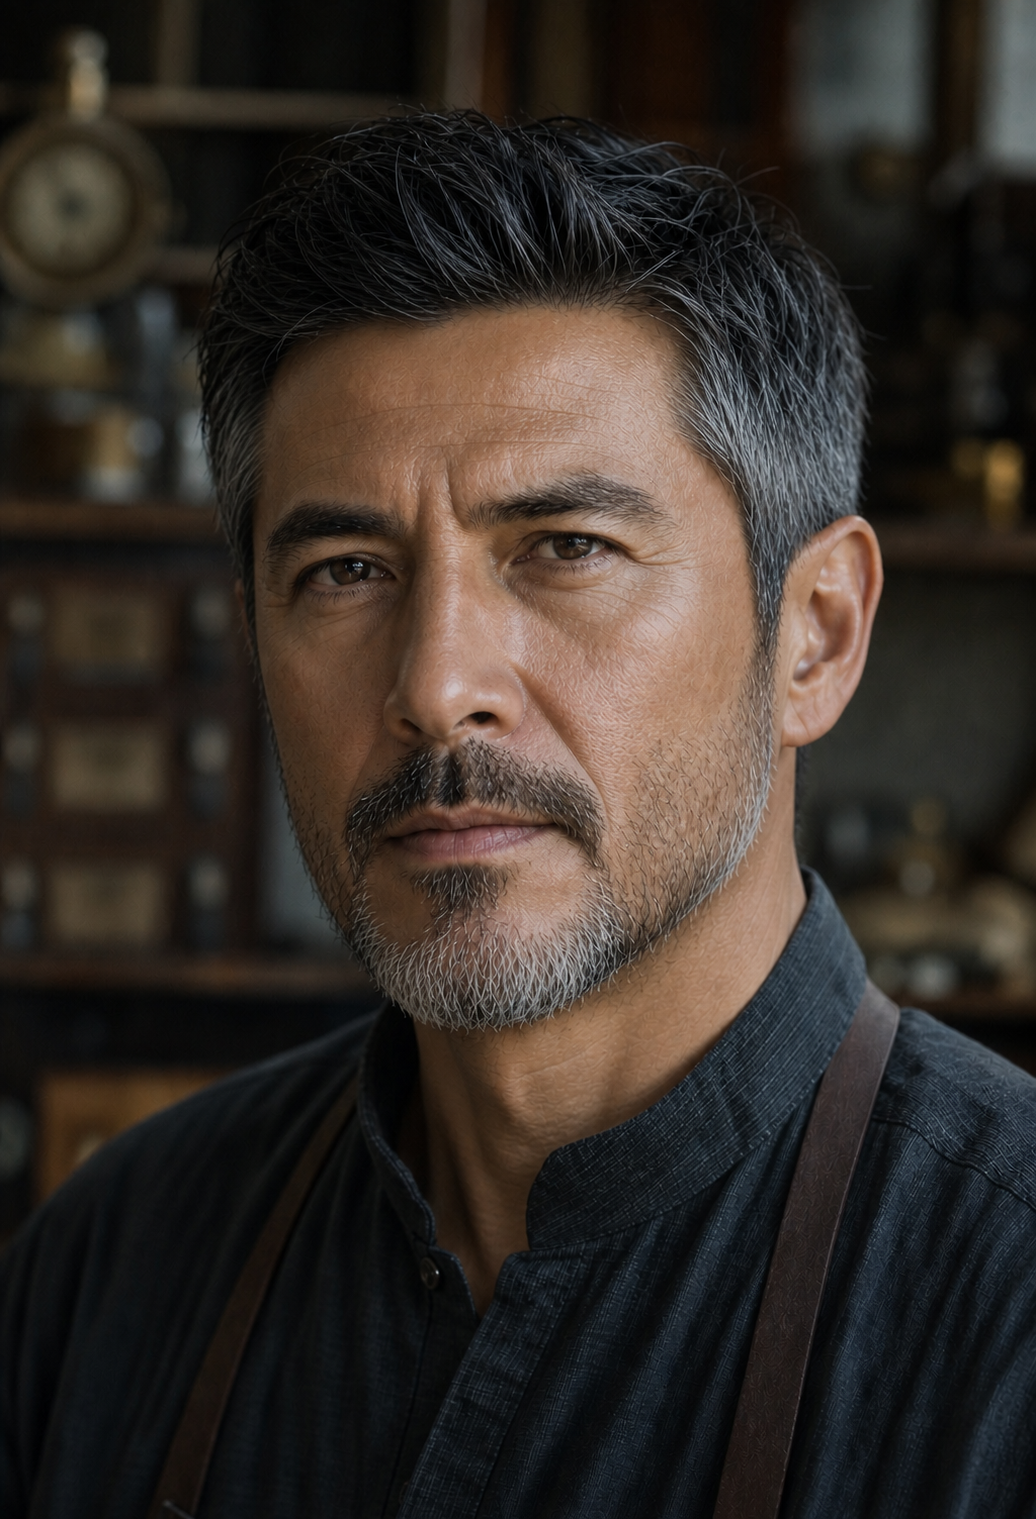
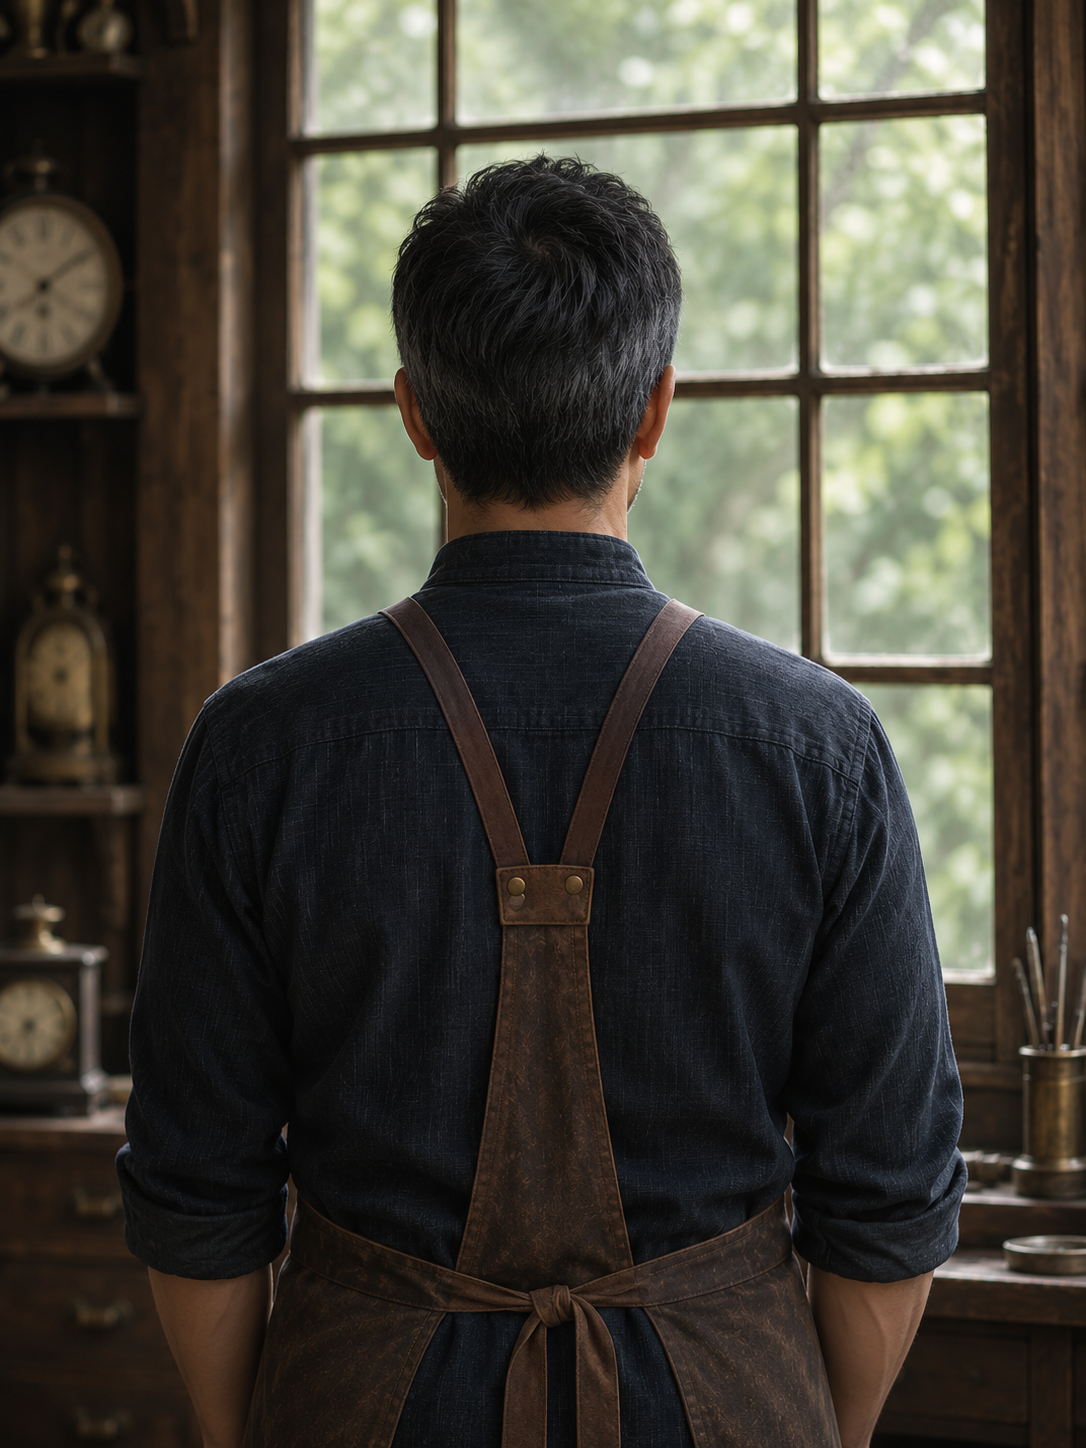
Use secluded back-view portrait for Xuanwei

diff --git a/index.html b/index.html
@@ -58,7 +58,7 @@
   <section id="mentor" class="traveler mentor section-block" aria-labelledby="mentor-heading">
     <div class="traveler-layout">
       <figure class="traveler-portrait">
-        <div class="mentor-portrait"><img src="xuanwei.png" alt="玄微道長的肖像，身著深色衣衫，神情沉靜" width="1036" height="1519" loading="lazy"></div>
+        <div class="mentor-portrait"><img src="xuanwei.png?v=secluded-1" alt="玄微道長身著深色衣衫，背對鏡頭靜立木窗前，不露正臉" loading="lazy"></div>
         <figcaption><span>太濟觀 · 師承</span><span>隱世中</span></figcaption>
       </figure>
       <div class="traveler-copy">
